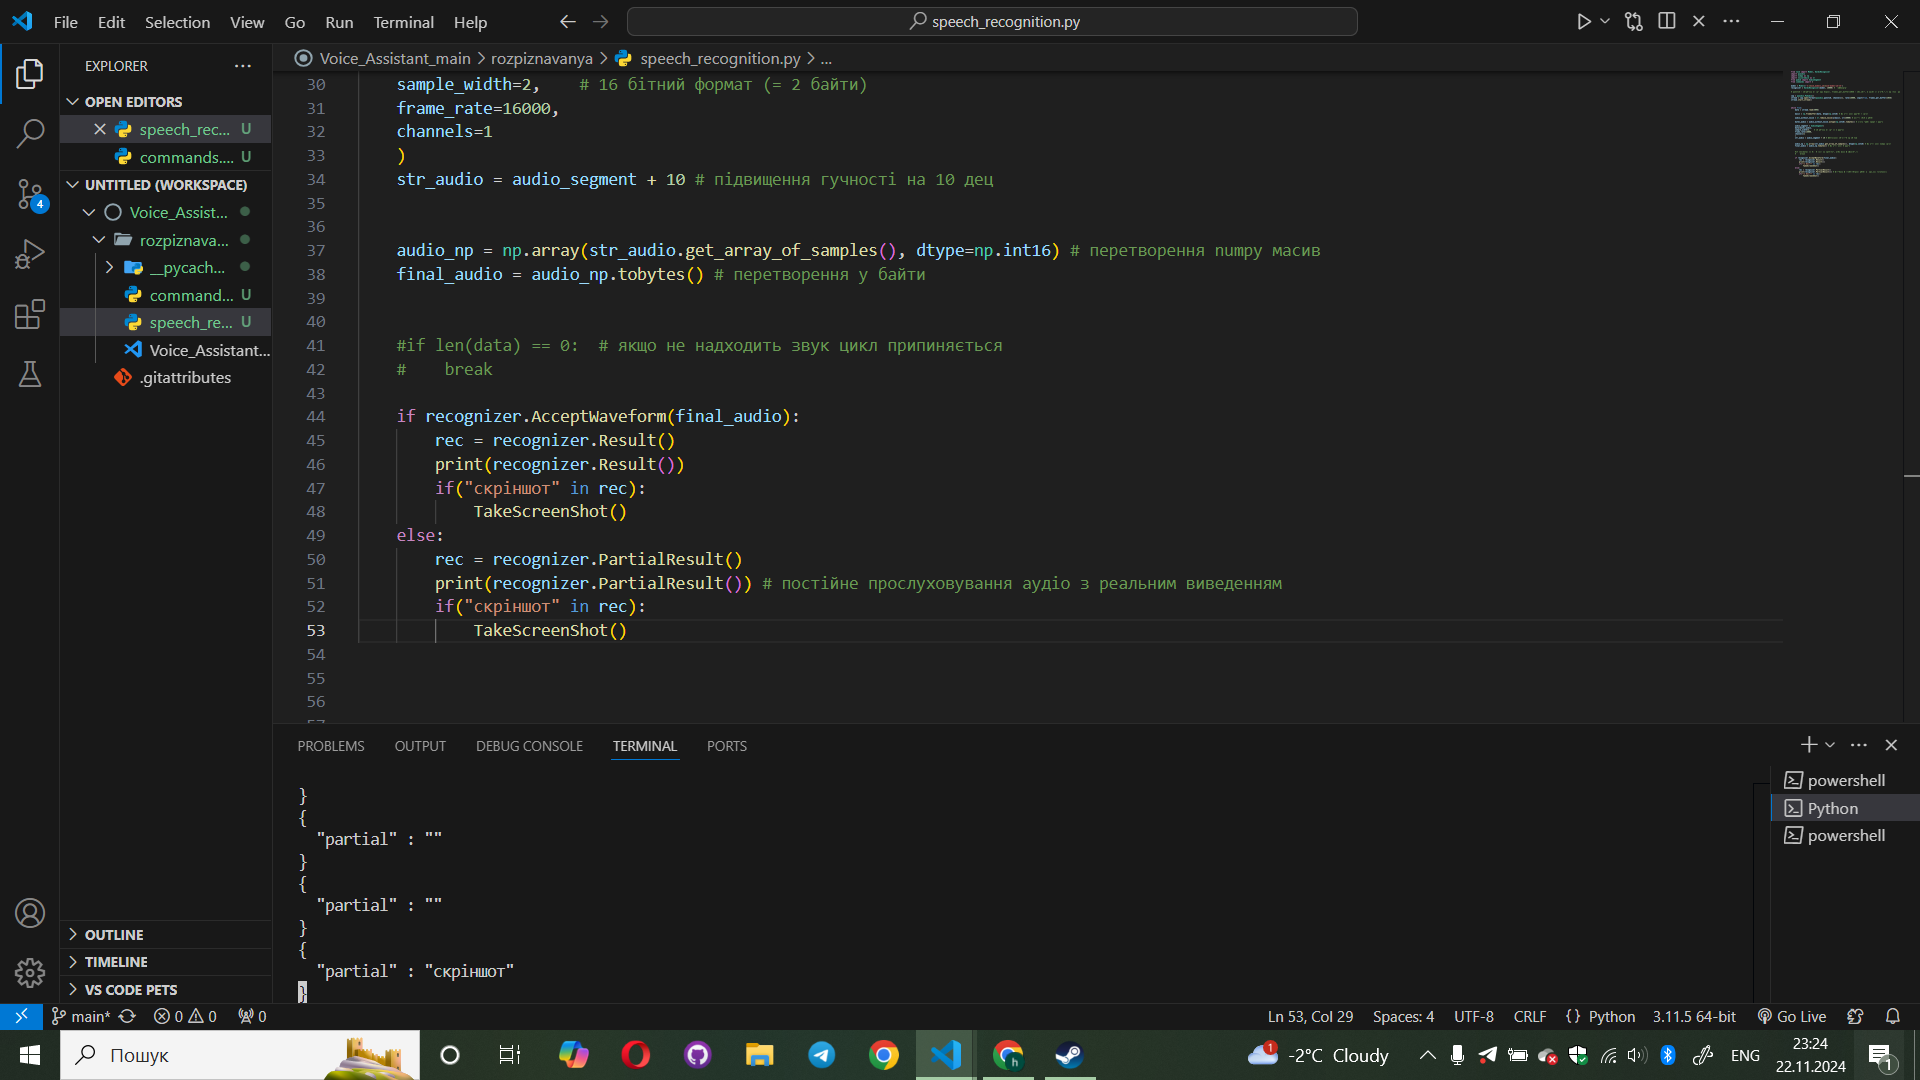
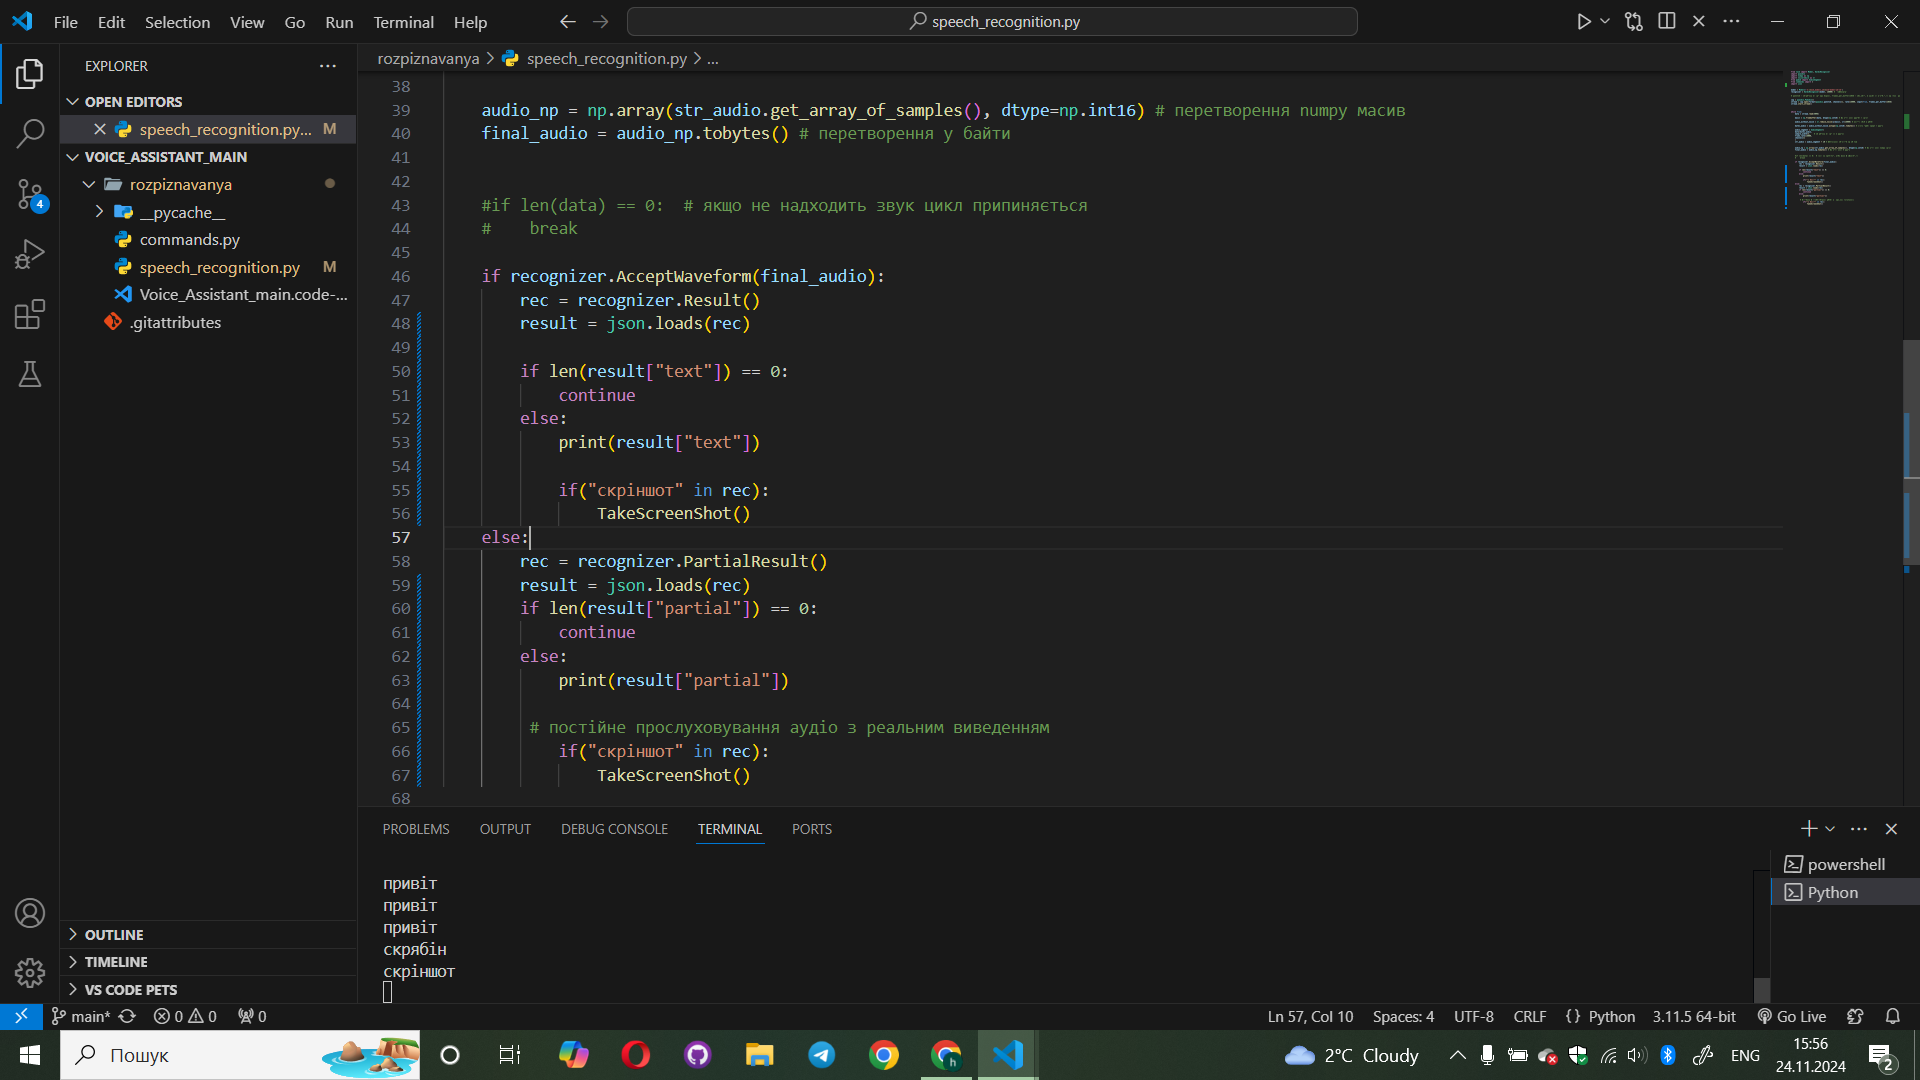
added fuction if len(text) == 0, text not write in terminal

diff --git a/rozpiznavanya/speech_recognition.py b/rozpiznavanya/speech_recognition.py
@@ -4,6 +4,8 @@ import numpy as np
 import noisereduce as nr
 from pydub import AudioSegment
 from commands import * 
+import json
+
 
 model = Model(r'C:\vosk_models_uk\vosk-model-uk-v3') 
 recognizer = KaldiRecognizer(model, 16000) # розпізнавач
@@ -43,15 +45,27 @@ while True:
 
     if recognizer.AcceptWaveform(final_audio): 
         rec = recognizer.Result()
-        print(recognizer.Result())
-        if("скріншот" in rec):
-            TakeScreenShot()                        
+        result = json.loads(rec)
+
+        if len(result["text"]) == 0:
+            continue
+        else:
+            print(result["text"])
+
+            if("скріншот" in rec):
+                TakeScreenShot()                        
     else:
         rec = recognizer.PartialResult()
-        print(recognizer.PartialResult()) # постійне прослуховування аудіо з реальним виведенням
-        if("скріншот" in rec):
-            TakeScreenShot()
+        result = json.loads(rec)
+        if len(result["partial"]) == 0:
+            continue
+        else:
+            print(result["partial"])
         
-
+         # постійне прослуховування аудіо з реальним виведенням
+            if("скріншот" in rec):
+                TakeScreenShot()
+        
+    
         
         
